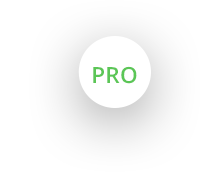
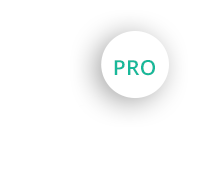
fix undefine object in subscription settings post type and add wpuf pro image

Changed region(s): [[0.36, 0.1944, 0.81, 0.7222]]

diff --git a/admin/class-admin-subscription.php b/admin/class-admin-subscription.php
@@ -255,15 +255,16 @@ class WPUF_Admin_Subscription {
 
         foreach ( $post_types as $key => $name ) {
             $post_type_object = get_post_type_object( $key );
-            ?>
-            <tr>
-                <th><label for="wpuf-<?php echo esc_attr( $key ); ?>"><?php printf( 'Number of %s', $post_type_object->label ); ?></label></th>
-                <td>
-                    <input type="text" size="20" style="" id="wpuf-<?php echo esc_attr( $key ); ?>" value="<?php echo intval( $name ); ?>" name="post_type_name[<?php echo esc_attr( $key ); ?>]" />
-                    <div><span class="description"><span><?php printf( 'How many %s the user can list with this pack? Enter <strong>-1</strong> for unlimited.', $key ); ?></span></span></div>
-                </td>
-            </tr>
+            if ( $post_type_object ) { ?>
+                <tr>
+                    <th><label for="wpuf-<?php echo esc_attr( $key ); ?>"><?php printf( 'Number of %s', $post_type_object->label ); ?></label></th>
+                    <td>
+                        <input type="text" size="20" style="" id="wpuf-<?php echo esc_attr( $key ); ?>" value="<?php echo intval( $name ); ?>" name="post_type_name[<?php echo esc_attr( $key ); ?>]" />
+                        <div><span class="description"><span><?php printf( 'How many %s the user can list with this pack? Enter <strong>-1</strong> for unlimited.', $key ); ?></span></span></div>
+                    </td>
+                </tr>
             <?php
+            }
         }
 
         return ob_get_clean();
